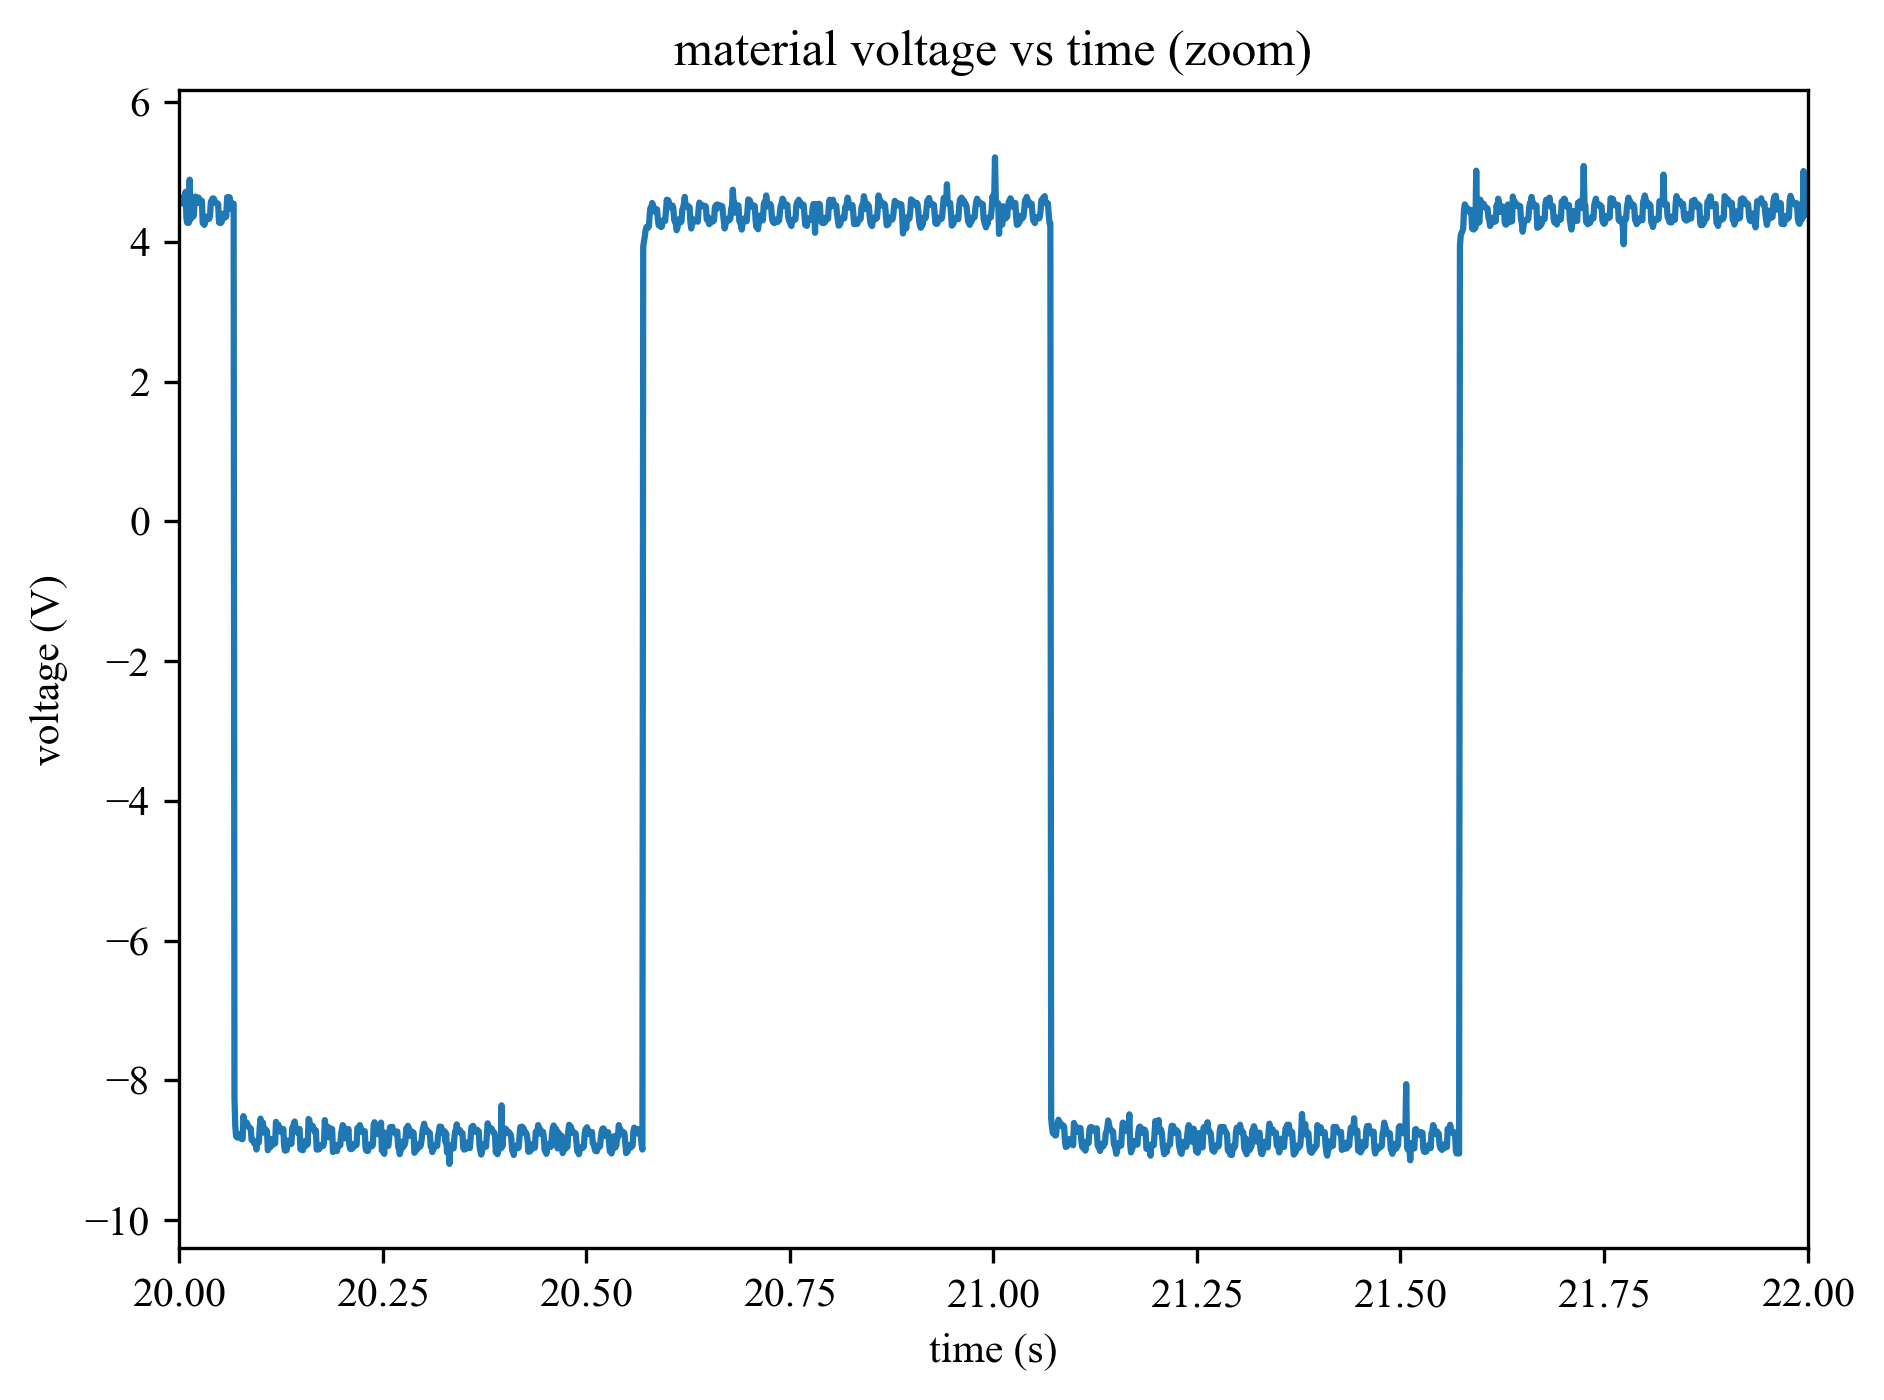
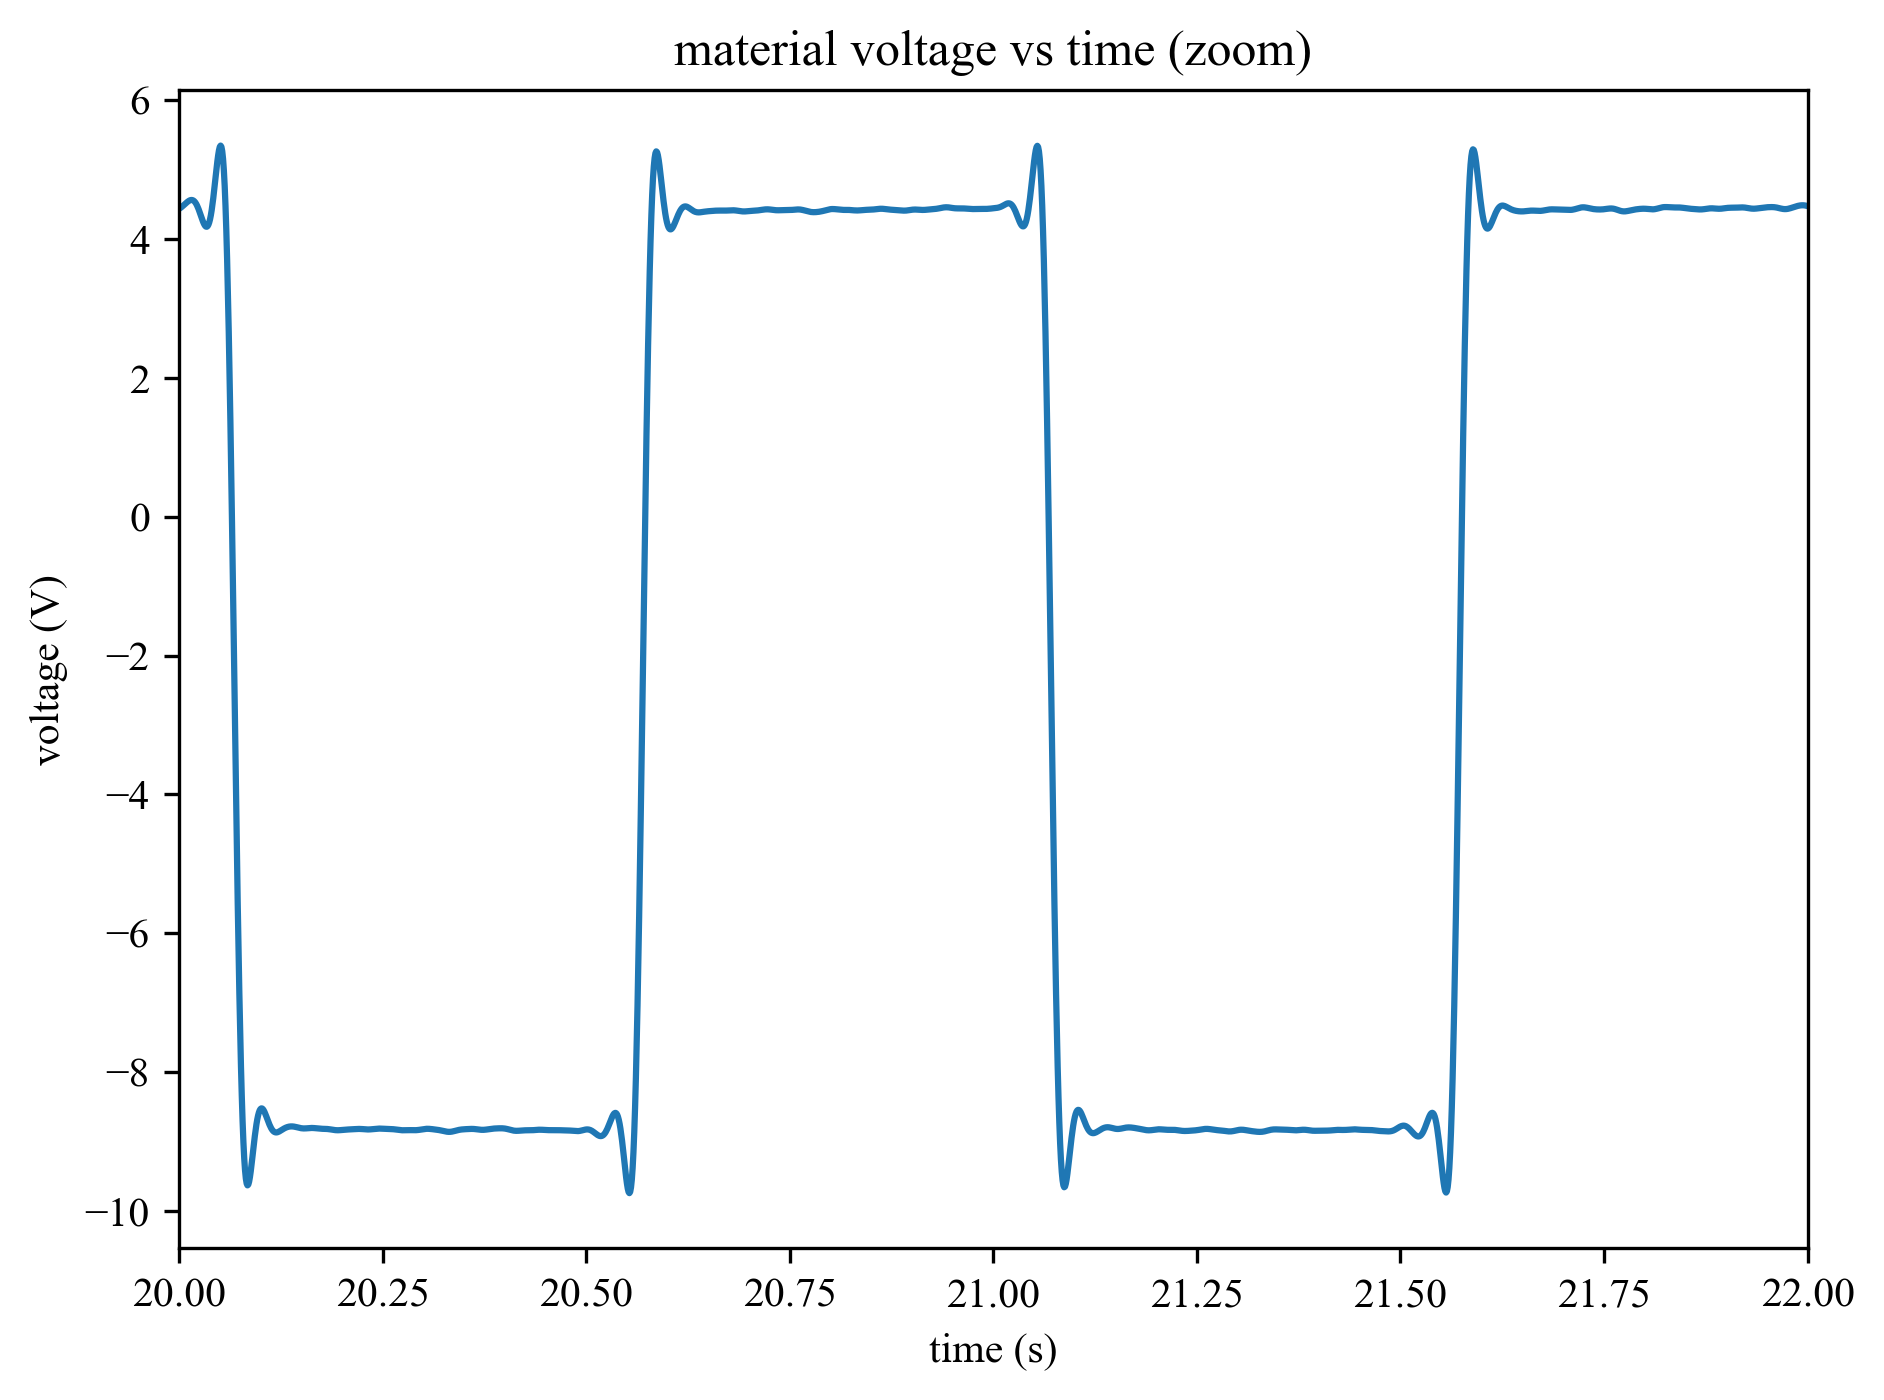
added filter option to code

diff --git a/DAQ_design/Assisi/v0.2.1/code/data_processing_offline/simple-data-processing.py b/DAQ_design/Assisi/v0.2.1/code/data_processing_offline/simple-data-processing.py
@@ -20,6 +20,7 @@ import numpy as np
 import pandas as pd
 import matplotlib.pyplot as plt
 from scipy.fft import rfft, rfftfreq
+from scipy.signal import butter, filtfilt
 
 # set default fonts and plot colors
 plt.rcParams.update({'text.usetex': False})
@@ -97,10 +98,34 @@ v4_full = np.concatenate([df[c].to_numpy() for c in v4_cols[:nblocks]])
 v5_full = np.concatenate([df[c].to_numpy() for c in v5_cols[:nblocks]]) # resistance curve
 v6_full = np.concatenate([df[c].to_numpy() for c in v6_cols[:nblocks]])
 
+# rewrite voltages to match wiring diagram
+v1 = v6_full # before resistor
+v2 = v5_full # after resistor
+v3 = v4_full # across material
+
+#%% optional lowpass filter
+USE_FILTER = True
+
+if USE_FILTER:
+
+    fs = 1.0 / dt      # sample rate from the data
+    cutoff = 30.0      # Hz
+    order = 4
+
+    b, a = butter(order, cutoff / (fs / 2), btype="low")
+
+    v1_use = filtfilt(b, a, v1)
+    v2_use = filtfilt(b, a, v2)
+    v3_use = filtfilt(b, a, v3)
+else:
+    v1_use = v1
+    v2_use = v2
+    v3_use = v3
+
 #%% core calculations
 Rshunt = 1e6 # your plug's resistor (Rshunt) in ohms
-Vshunt = v6_full - v5_full # voltage drop after Rshunt
-Vmat = v5_full - v4_full # voltage across material
+Vshunt = v1_use - v2_use # voltage drop after Rshunt
+Vmat = v2_use - v3_use # voltage across material
 I = Vshunt / Rshunt # current after resistor
 Rmat = Vmat / I # resistance of material
 
@@ -146,9 +171,14 @@ for start in rising[1:]:
 pulse_time = np.array(pulse_time)
 Rpulse = np.array(Rpulse)
 
+# Keep only valid points based on the raw signal
 keep = (pulse_time > read_delay) & (Rpulse > low_thres) & (Rpulse < high_thres)
+
 pulse_time = pulse_time[keep]
 Rpulse = Rpulse[keep]
+
+# Make the x-axis evenly spaced: one point per pulse
+pulse_time = np.arange(len(Rpulse))
 
 #%% save steady-state Ravg per pulse in CSV
 Ravg_df = pd.DataFrame({
@@ -185,6 +215,9 @@ print("Dominant frequency:", freq[peak], "Hz")
 
 #%% plots
 
+plt.plot(time_full, Vmat)
+plt.plot(time_full, Vshunt)
+
 '''
 # A2 vs T: whole experiment
 plt.figure()
@@ -196,7 +229,7 @@ plt.tight_layout()
 plt.savefig(SAVE_FOLDER / f"{TEST_NAME}-A2-vs-T.png",
             dpi=300,
             bbox_inches="tight")
-
+'''
 # A2 vs T: zoom
 plt.figure()
 plt.plot(time_full, v5_full)
@@ -209,7 +242,7 @@ plt.tight_layout()
 plt.savefig(SAVE_FOLDER / f"{TEST_NAME}-zoom-A2-vs-T.png",
             dpi=300,
             bbox_inches="tight")
-
+'''
 # Vmat vs T: whole experiment
 plt.figure()
 plt.plot(time_full, Vmat)
@@ -219,7 +252,7 @@ plt.title("material voltage vs time")
 plt.tight_layout()
 plt.savefig(SAVE_FOLDER / f"{TEST_NAME}-Vmat-vs-T.png",
             dpi=300,
-
+'''
 # Vmat vs T: zoom
 plt.figure()
 plt.plot(time_full, Vmat)
@@ -231,10 +264,10 @@ plt.tight_layout()
 plt.savefig(SAVE_FOLDER / f"{TEST_NAME}-zoom-Vmat-vs-T.png",
             dpi=300,
             bbox_inches="tight")
-
+'''
 # Rmat vs T: whole experiment
 plt.figure()
-plt.plot(time_full, Rmat)
+plt.plot(time_full, Rmat_use)
 plt.xlabel("time (s)")
 plt.ylabel("resistance (ohms)")
 plt.title("material resistance vs time")
@@ -256,20 +289,20 @@ plt.tight_layout()
 plt.savefig(SAVE_FOLDER / f"{TEST_NAME}-zoom-Rmat-vs-T.png",
             dpi=300,
             bbox_inches="tight")
-'''
+
 # steady-state Ravg PER pulse over time
 plt.figure()
 plt.plot(pulse_time, Rpulse, 'o-')
-plt.xlabel("Time (s)")
+plt.xlabel("pulse number")
 plt.ylabel("Average Resistance (Ω)")
 plt.title("Average Steady-State Resistance vs Time")
-plt.ylim(5e5, 15e5)
-plt.xlim(0,120)
+plt.ylim(9e5, 1e6)
+plt.xlim(0,45)
 plt.grid(True)
 plt.savefig(SAVE_FOLDER / f"{TEST_NAME}-ss-ravg-pp-vs-t.png",
             dpi=300,
             bbox_inches="tight")
-
+'''
 # FFT
 plt.figure()
 plt.plot(freq, fft)

diff --git a/DAQ_design/Assisi/v0.2.1/code/README.md b/DAQ_design/Assisi/v0.2.1/code/README.md
@@ -1,5 +1,6 @@
 # code
 * Codes for Assisi V0.2.1
+* Using LabView 2025
 
 ## firmware
 * This is the code for the microcontroller to control biphasic pulsing.